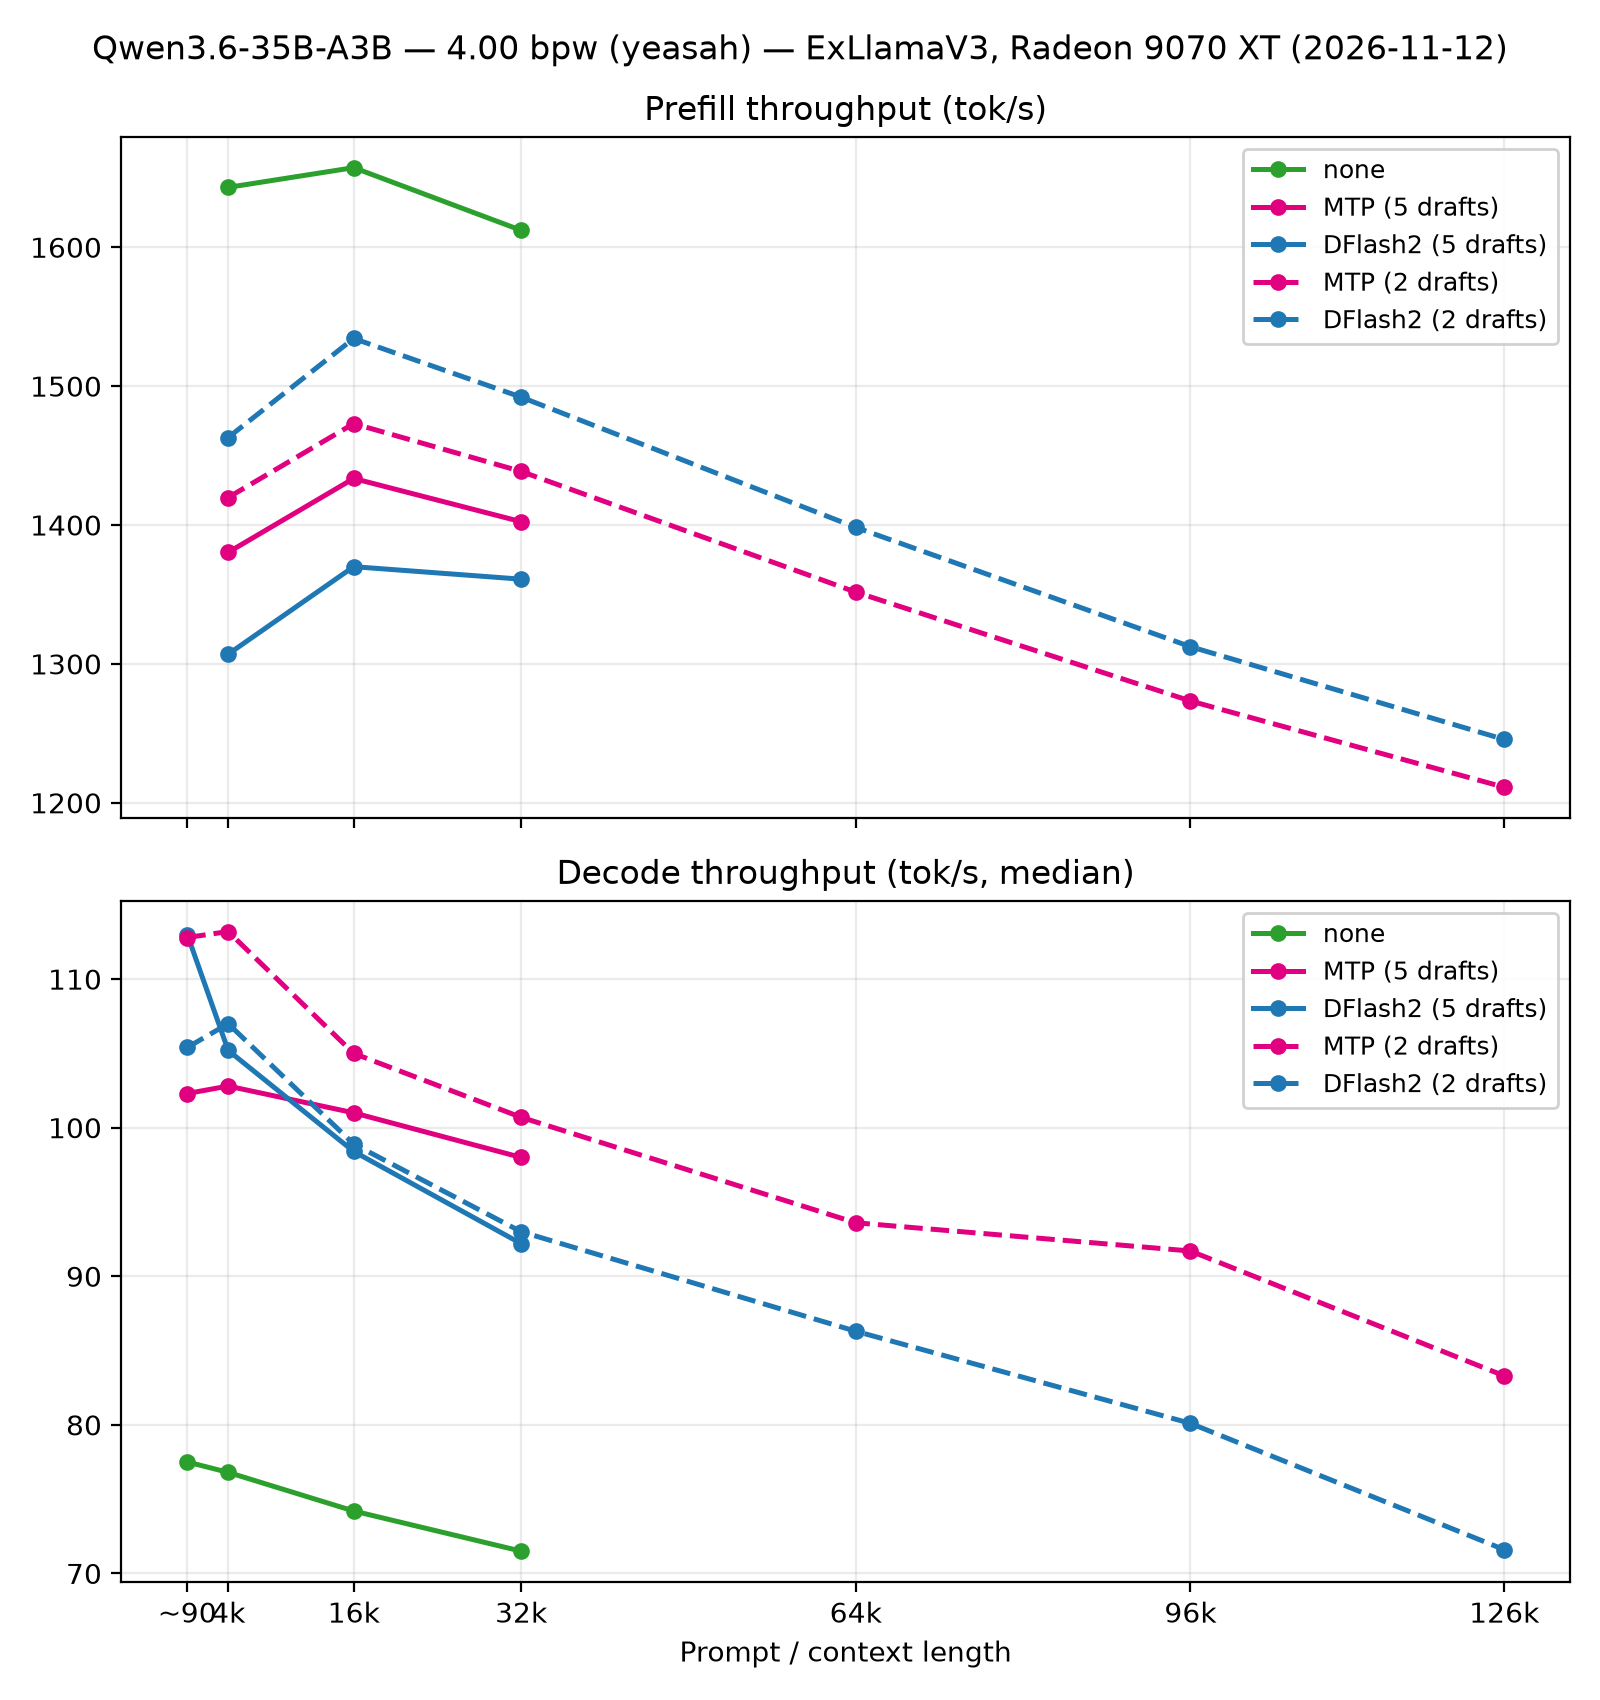
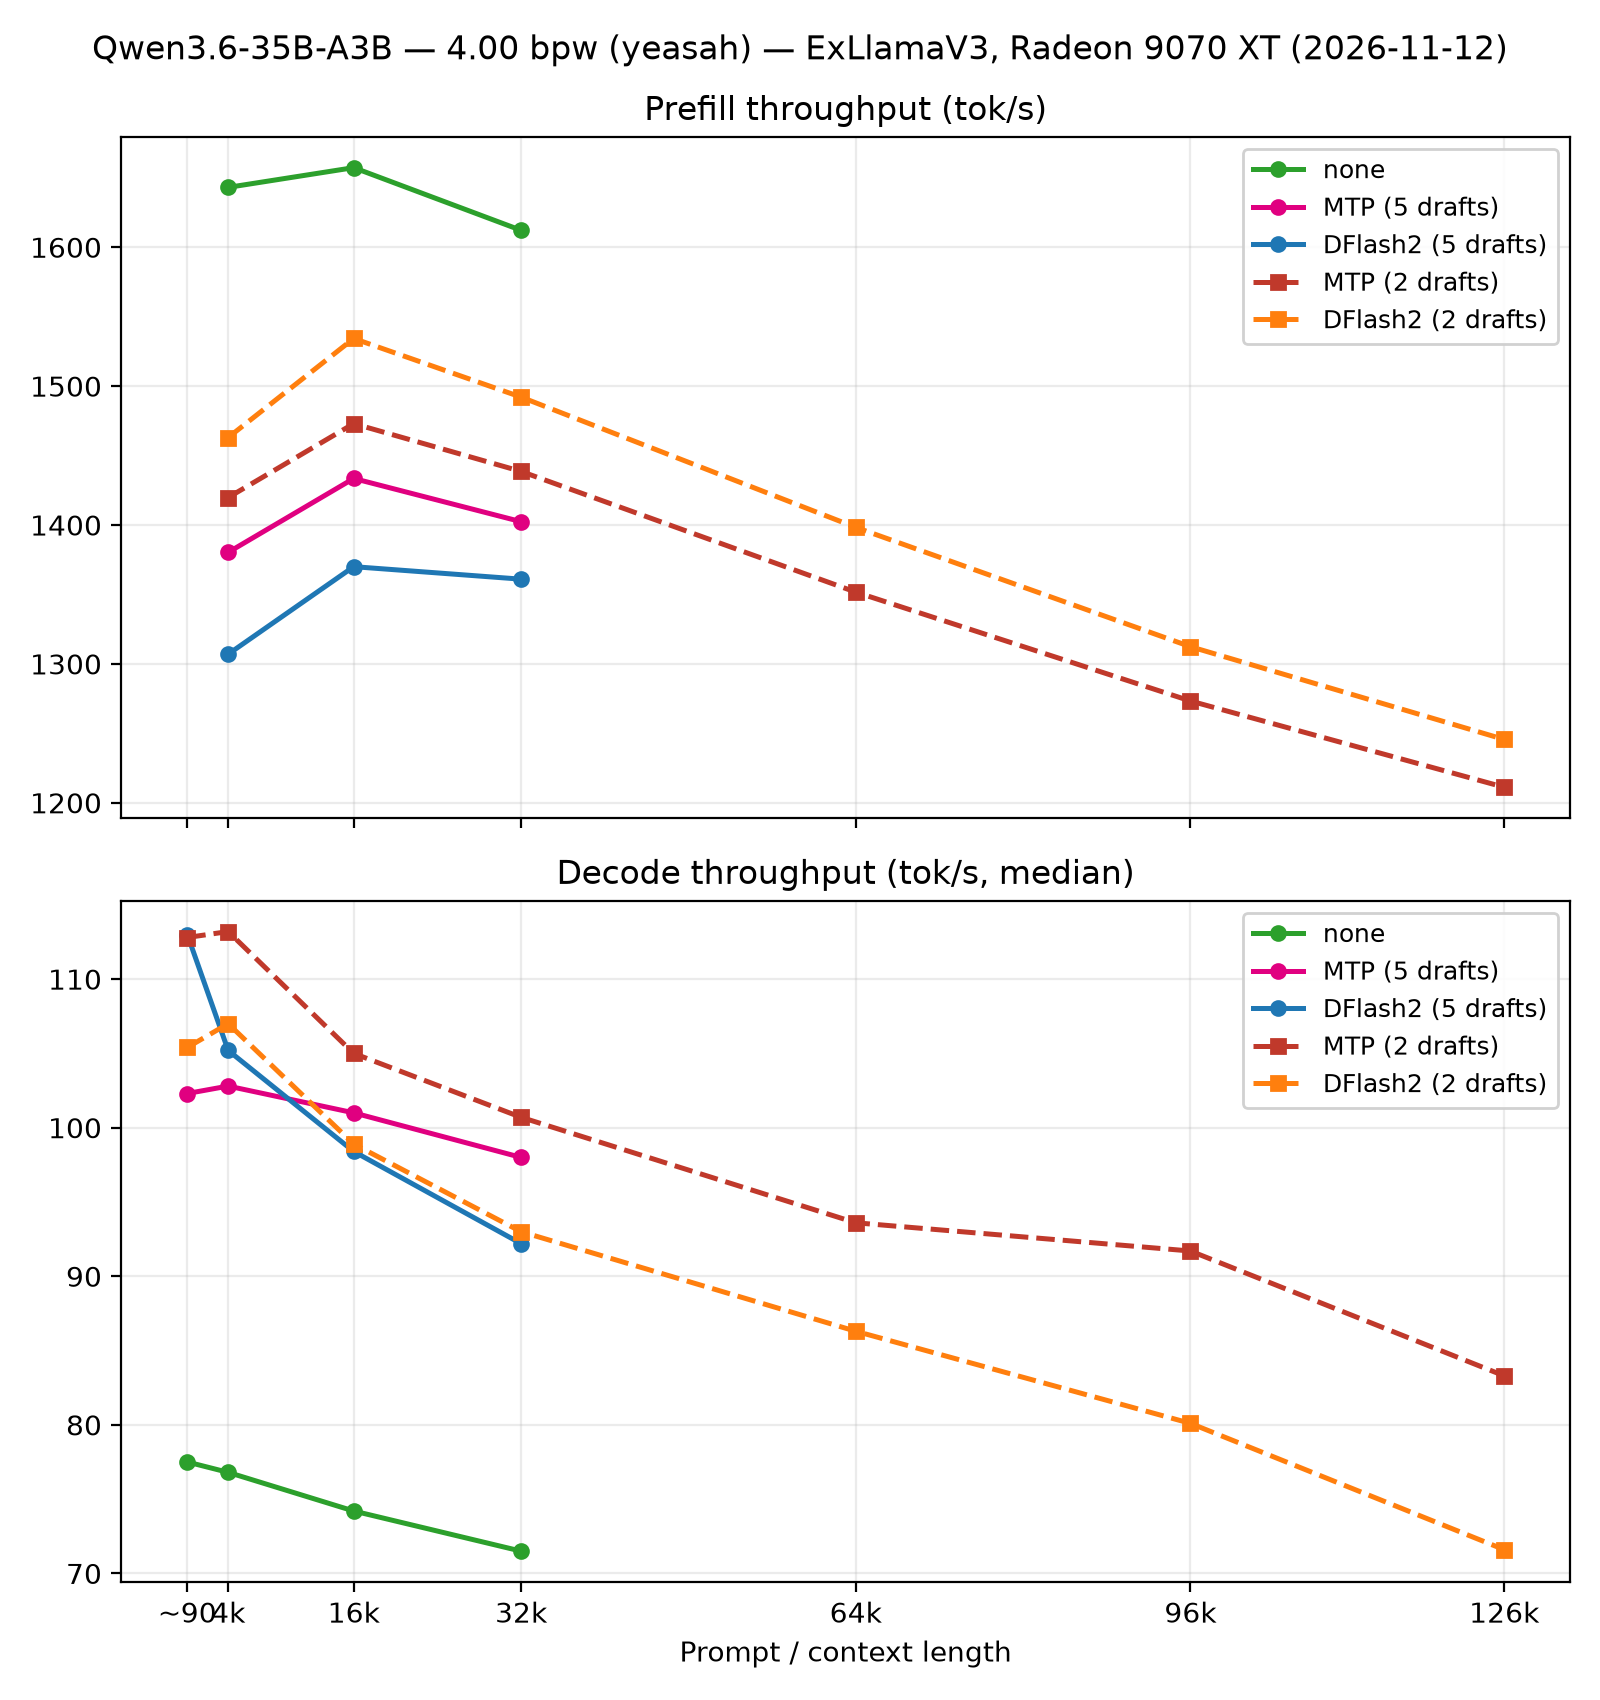
update plots

diff --git a/plots/qwen_per_quant.py b/plots/qwen_per_quant.py
@@ -65,7 +65,7 @@ quants = {
 # draw order, color, line style
 order = ["none", "MTP", "DFlash2", "MTP (2 drafts)", "DFlash2 (2 drafts)"]
 colors = {"none": "#2ca02c", "MTP": "#e00080", "DFlash2": "#1f77b4",
-          "MTP (2 drafts)": "#e00080", "DFlash2 (2 drafts)": "#1f77b4"}
+          "MTP (2 drafts)": "#c0392b", "DFlash2 (2 drafts)": "#ff7f0e"}
 styles = {"none": "-", "MTP": "-", "DFlash2": "-",
           "MTP (2 drafts)": "--", "DFlash2 (2 drafts)": "--"}
 
@@ -83,11 +83,15 @@ for q in quants.values():
                 continue
             # decode includes the short-context point; prefill starts at 4k
             xs = q["xs"][:len(data[line])] if ax is ax2 else q["xs"][1:1 + len(data[line])]
-            ax.plot(xs, data[line], marker="o", label=q["labels"].get(line, line),
+            # aside (2 drafts) lines: dashed + distinct marker + distinct color
+            marker = "s" if "(2 drafts)" in line else "o"
+            ax.plot(xs, data[line], marker=marker, label=q["labels"].get(line, line),
                     color=colors[line], ls=styles[line], lw=1.8, ms=5)
         ax.set_title(title)
         ax.grid(True, alpha=0.25)
         ax.legend(loc="upper right", fontsize=9, framealpha=0.9)
+        for h, t in zip(*ax.get_legend_handles_labels()):
+            print(q["out"], t, h.get_color(), h.get_linestyle())
     ax2.set_xticks(q["xs"])
     ax2.set_xticklabels(xtick_labels(q["xs"]))
     ax2.set_xlabel("Prompt / context length")

diff --git a/QWEN3.6-35B-A3B.md b/QWEN3.6-35B-A3B.md
@@ -165,9 +165,9 @@ Comparison (MTP vs DFlash2, both 2 draft tokens):
 ## Throughput graphs
 
 One figure per quant (prefill on top, decode below — short-context decode
-plotted at the left edge). In the 4.00 bpw figure, the **dashed lines are the
-aside runs** with 2 draft tokens (magenta = MTP 11:20Z, blue = DFlash2
-11:44Z), full range to 126k.
+plotted at the left edge). In the 4.00 bpw figure, the **dashed lines with
+square markers are the aside runs** with 2 draft tokens (red = MTP 11:20Z,
+orange = DFlash2 11:44Z), full range to 126k.
 
 **4.00 bpw**
 
